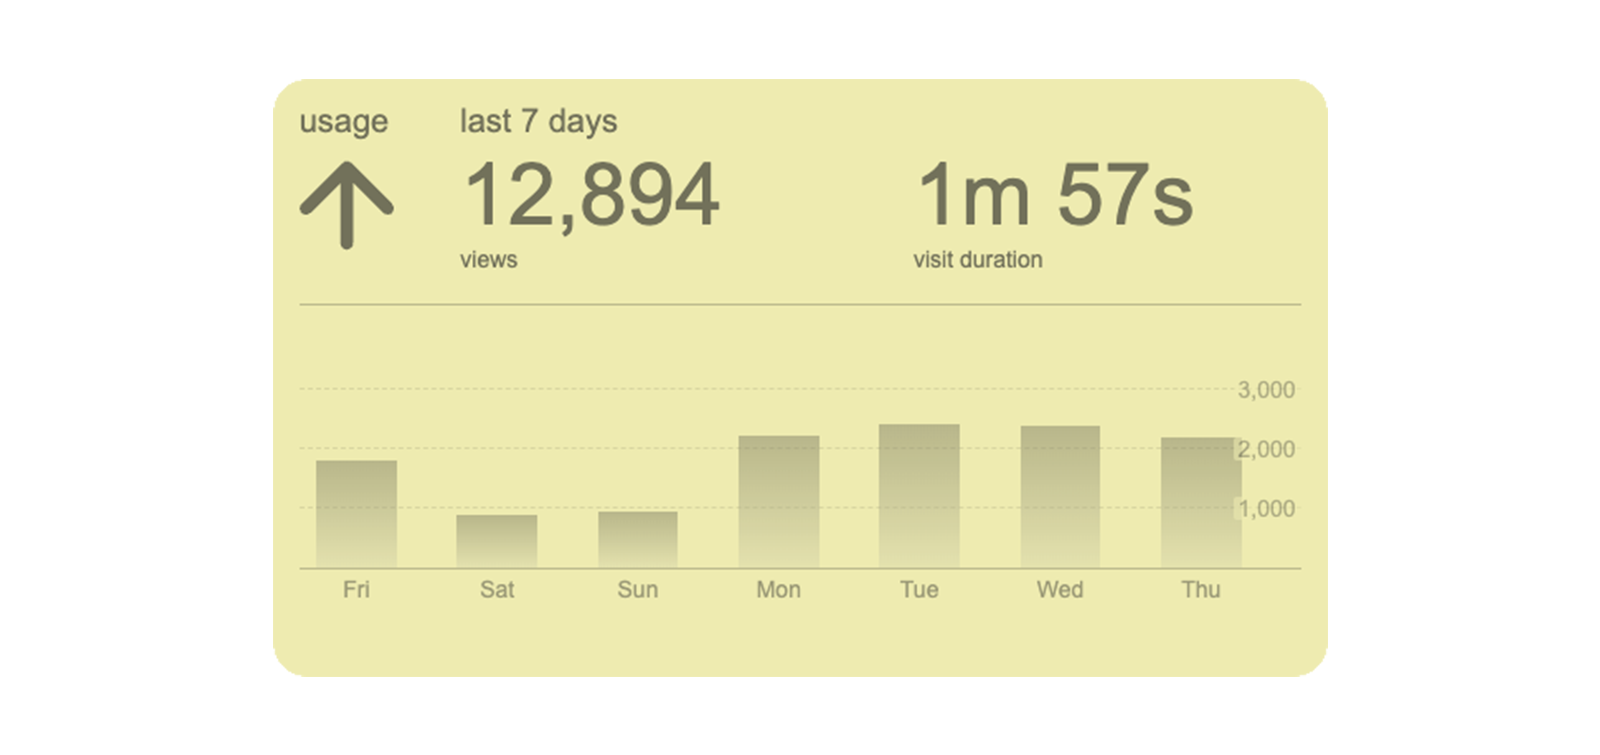
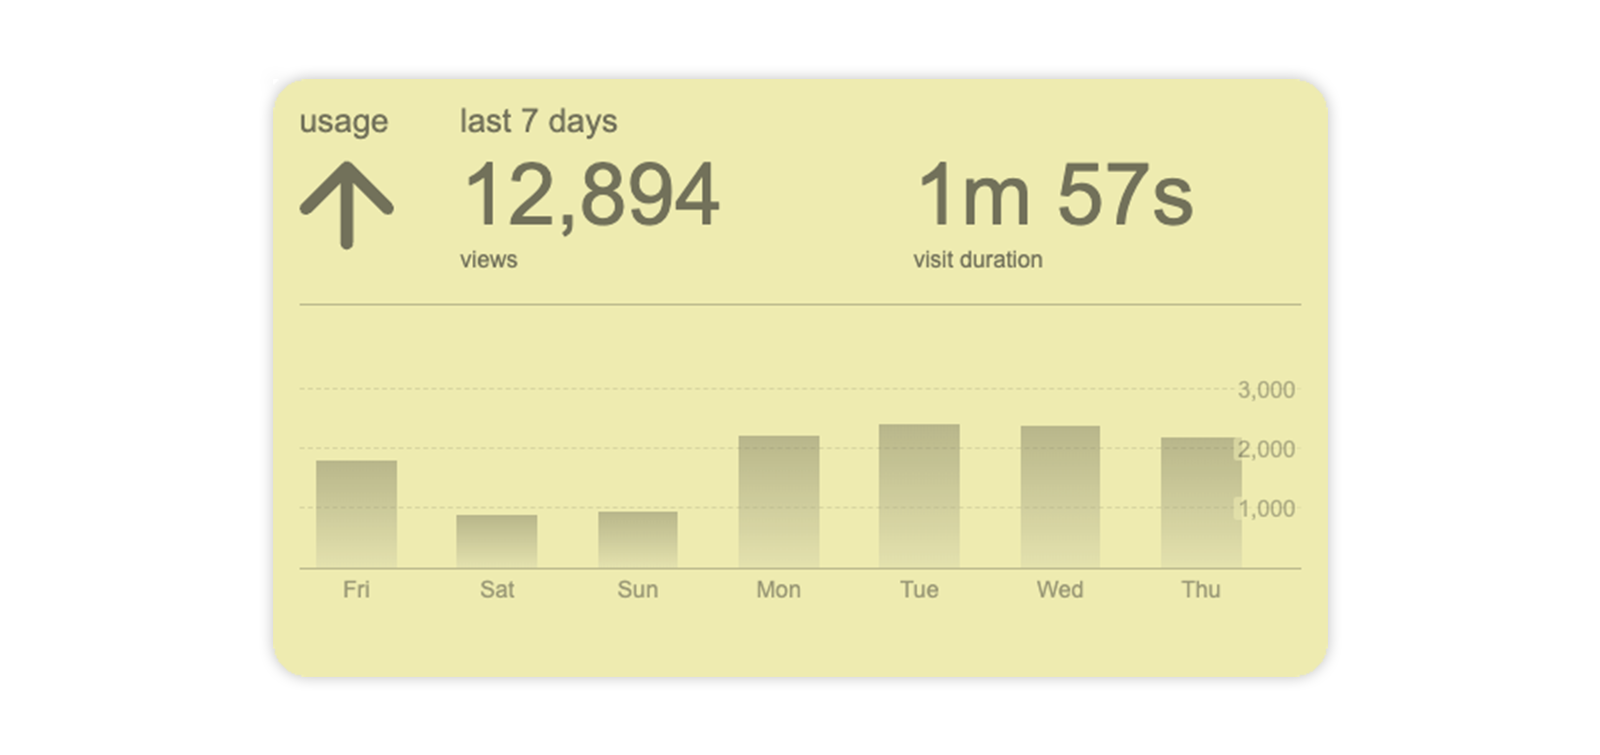
readme updates

diff --git a/README.md b/README.md
@@ -64,10 +64,10 @@ php craft observatory/sync/yesterday
 # backfill the last X days (default 30), optional concurrency (default 2)
 php craft observatory/sync/historical 30 2
 ```
-
-## How the data gets there
-
-Closed days are immutable, so Observatory fetches them from PostHog once and stores them in local tables. Today is never mirrored — it's still accumulating, so it's fetched live on every request and merged on top.
+## Screenshots
+<img src="images/widgets.png"/>
+<br />
+<img src="images/control-panel.png"/>
 
 ## Support
 
